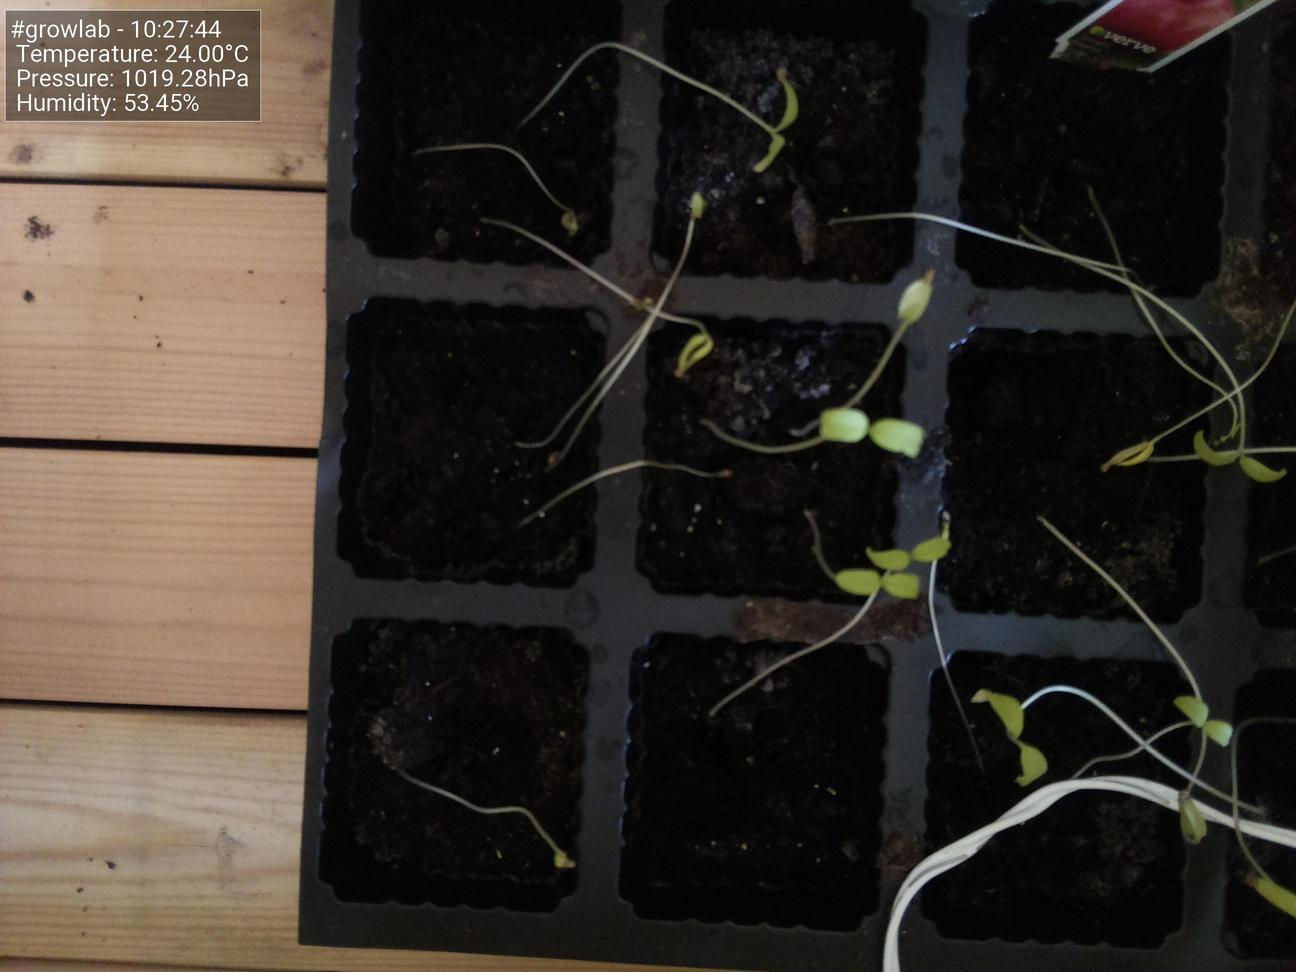
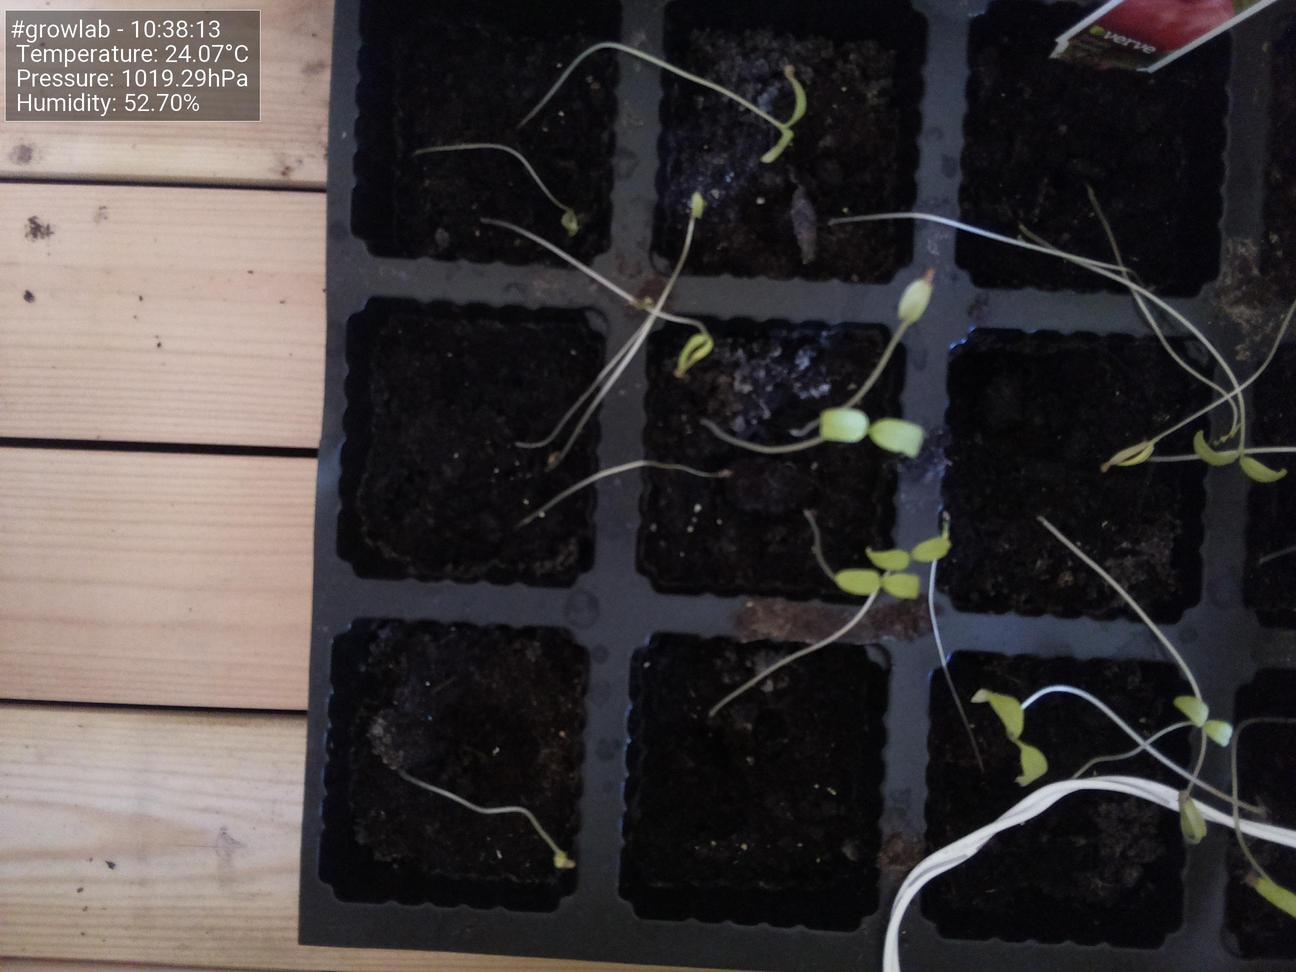
Update images at Sun 13 Jun 10:38:29 BST 2021

diff --git a/index.html b/index.html
@@ -47,19 +47,19 @@
                         <tbody>
                             <tr>
                                 <td>Time</td>
-                                <td>10:27:44</td>
+                                <td>10:38:13</td>
                             </tr>
                             <tr>
                                 <td>Temperature</td>
-                                <td>24.00°C</td>
+                                <td>24.07°C</td>
                             </tr>
                             <tr>
                                 <td>Humidity</td>
-                                <td>53.45%</td>
+                                <td>52.70%</td>
                             </tr>
                             <tr>
                                 <td>Pressure</td>
-                                <td>1019.28hPa</td>
+                                <td>1019.29hPa</td>
                             </tr>
                         </tbody>
                     </table>
@@ -67,7 +67,7 @@
 
                 <h5>Latest image</h5>
                 <div style="width: 85%;">
-                            <img class="figure-img img-fluid rounded" src="./preview.jpg?uid=1623576479.6590161">
+                            <img class="figure-img img-fluid rounded" src="./preview.jpg?uid=1623577108.2317798">
                 </div>
             </div>
         </div>
